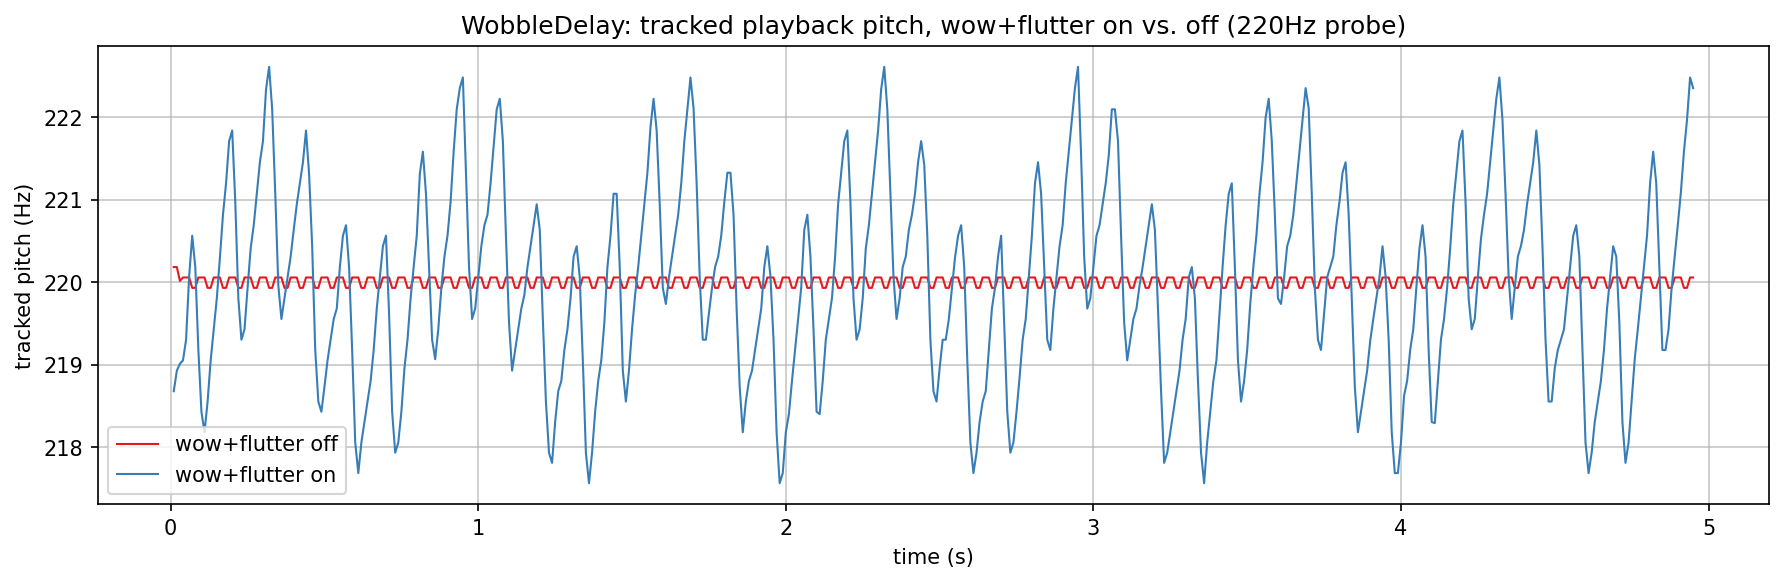
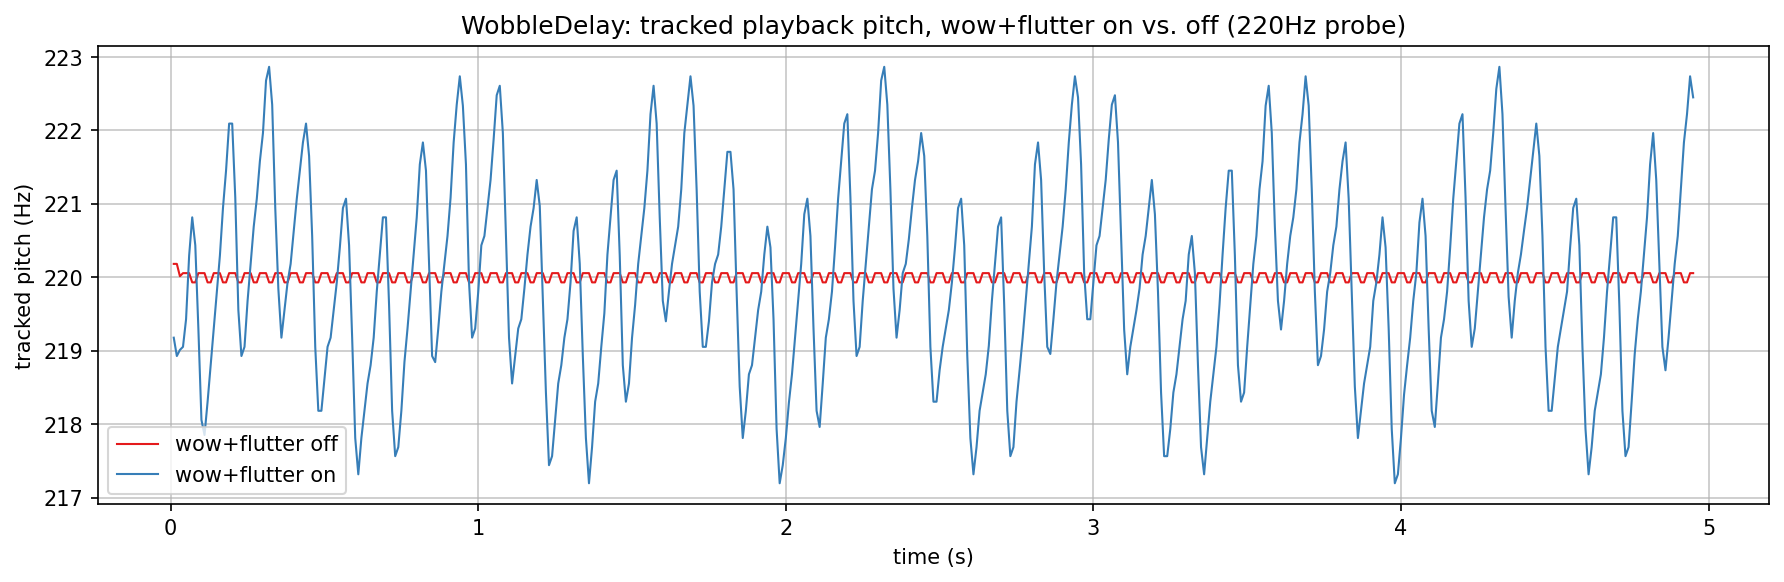
Scale WobbleDelay flutter by its own rate

Changed region(s): [[0.0, 0.0928, 0.9865, 0.8041], [0.0308, 0.8351, 0.9865, 0.866]]

diff --git a/src/includes/Delays/WobbleDelay.h b/src/includes/Delays/WobbleDelay.h
@@ -22,14 +22,11 @@ namespace AbacDsp
  *
  * The read position is the write head minus a delay, so it can never drift from it. That
  * delay is an eased base distance plus a Wow delay and a Flutter offset, updated every
- * TileSize samples and interpolated linearly in between. The result is clamped to the safety
- * margin, so the read head can not reach the write head however deep the modulation is.
- * setDelay() glides along a smoothstep curve, so the read speed is zero at both ends of a retune
- * and its peak is bounded. The read is Catmull-Rom.
- *
- * There is no resampling here: run it at another rate by wrapping it in UpDownSampler.
- * Flutter is a speed error, used here directly as a position offset scaled to the physical
- * excursion at kFlutterReferenceHz.
+ * TileSize samples and interpolated linearly in between, then clamped to the safety margin
+ * so the read head can not reach the write head. setDelay() glides along a smoothstep curve
+ * with zero read speed at both ends and a bounded peak. The read is Catmull-Rom.
+ * Flutter is a speed error, used as a position offset scaled to its physical excursion at its
+ * own rate. There is no resampling: wrap it in UpDownSampler for other rates.
  * @see https://en.wikipedia.org/wiki/Wow_and_flutter
  */
 template <size_t BufferSize, size_t TileSize>
@@ -43,22 +40,25 @@ class WobbleDelay
     static constexpr float kRetuneSlope{0.5f};
     /// Peak slope of the smoothstep curve, which a retune's duration is stretched by.
     static constexpr float kSmoothstepPeakSlope{1.5f};
-    /// Flutter frequency at which its position offset equals the physical delay excursion.
-    static constexpr float kFlutterReferenceHz{10.f};
+    /// Lowest flutter rate its offset is scaled for; below it the excursion stops growing.
+    static constexpr float kMinFlutterRateHz{0.1f};
+    /// Matches the rate `Flutter` starts with.
+    static constexpr float kDefaultFlutterRateHz{0.3f};
     /// Fewest samples between write and read that the four-point read can support.
     static constexpr float kStructuralMinDelay{3.f};
     static constexpr float kMaxDelay{static_cast<float>(BufferSize) - 4.f};
     static constexpr float kDefaultDelay{static_cast<float>(BufferSize) / 8.f};
 
     explicit WobbleDelay(const float sampleRate)
-        : m_controlRate(sampleRate / static_cast<float>(TileSize))
+        : m_sampleRate(sampleRate)
+        , m_controlRate(sampleRate / static_cast<float>(TileSize))
         , m_msToSamples(sampleRate / 1000.f)
-        , m_flutterScale(sampleRate / (2.f * std::numbers::pi_v<float> * kFlutterReferenceHz))
         , m_buffer(BufferSize, 0.f)
         , m_flutter(m_controlRate)
         , m_wow(m_controlRate)
     {
         m_wow.setDepth(0.f);
+        setFlutterRate(kDefaultFlutterRateHz);
     }
 
     /// @brief Moves the base delay to the given number of samples, gliding unless forced.
@@ -97,6 +97,7 @@ class WobbleDelay
     void setFlutterRate(const float value) noexcept
     {
         m_flutter.setRate(value);
+        m_flutterScale = m_sampleRate / (2.f * std::numbers::pi_v<float> * std::max(value, kMinFlutterRateHz));
     }
 
     void setWowDepth(const float value) noexcept
@@ -201,9 +202,10 @@ class WobbleDelay
         return Interpolation::hermite43x(taps.data(), 1.f - fraction);
     }
 
+    const float m_sampleRate;
     const float m_controlRate;
     const float m_msToSamples;
-    const float m_flutterScale;
+    float m_flutterScale{0.f};
 
     std::vector<float> m_buffer;
     size_t m_head{0};

diff --git a/test/Delays/WobbleDelay_test.cpp b/test/Delays/WobbleDelay_test.cpp
@@ -231,6 +231,21 @@ TEST(WobbleDelayTest, FlutterMovesTheDelayAroundTheBase)
     EXPECT_GT(range.max, 1000.f);
 }
 
+TEST(WobbleDelayTest, FlutterExcursionFollowsItsOwnRate)
+{
+    const auto peakExcursion = [](const float rateHz)
+    {
+        Sut sut(kRate);
+        sut.setDelay(3000.f, true);
+        sut.setFlutterDepth(1.f);
+        sut.setFlutterRate(rateHz);
+        const auto range = observeDelay(sut, 20 * static_cast<size_t>(kRate));
+        return range.max - range.min;
+    };
+    // The same speed error gives a delay excursion inversely proportional to its rate.
+    EXPECT_NEAR(peakExcursion(0.5f) / peakExcursion(8.f), 16.f, 3.f);
+}
+
 TEST(WobbleDelayTest, ReadHeadNeverCrossesSafetyMargin)
 {
     Sut sut(kRate);

diff --git a/documentation/Delays/WobbleDelay/README.md b/documentation/Delays/WobbleDelay/README.md
@@ -19,15 +19,16 @@ renders for listening) goes into the gitignored `../generated/`.
 Pitch wobble. A 220 Hz tone passes through a 2000 sample delay, with wow (1.5 Hz, depth 0.8)
 and flutter (8 Hz, depth 0.8) either engaged or off. The pitch is tracked with
 `periodLengthByZeroCrossingAverage()` over a 42 ms window. With modulation off it sits flat at
-220 Hz (the small ripple is the tracker's own noise). With both on it wanders across roughly 217.5
-to 222.5 Hz, a slow wow cycle with the 8 Hz flutter riding on it. The pitch deviation is the
-derivative of the delay modulation, which is why the same depth values give a larger swing at the
-faster flutter rate.
+220 Hz (the small ripple is the tracker's own noise). With both on it wanders across roughly 217
+to 223 Hz, a slow wow cycle with the 8 Hz flutter riding on it. Flutter is a speed error, so its
+delay offset is scaled by its own rate (sample rate over 2 pi times the flutter rate, floored at
+0.1 Hz): the pitch swing then equals the configured depth at any flutter rate, while the delay
+excursion grows as the rate falls.
 
 ![Read/write distance under deep modulation, safety margin 30](wd_delaystability.png)
 
 Distance stability. A base delay of 60 samples with deep wow (depth 1.0) and flutter (3 %), and a
-safety margin of 30 samples, over 20 s. The distance swings between the margin and about 150
+safety margin of 30 samples, over 20 s. The distance swings between the margin and about 155
 samples and never goes below the margin line, which shows as flat stretches where the clamp
 engages. The clamp acts on the modulated target, and the delay is then interpolated between two
 clamped targets, so it holds between them as well. The unit test `ReadHeadNeverCrossesSafetyMargin`
